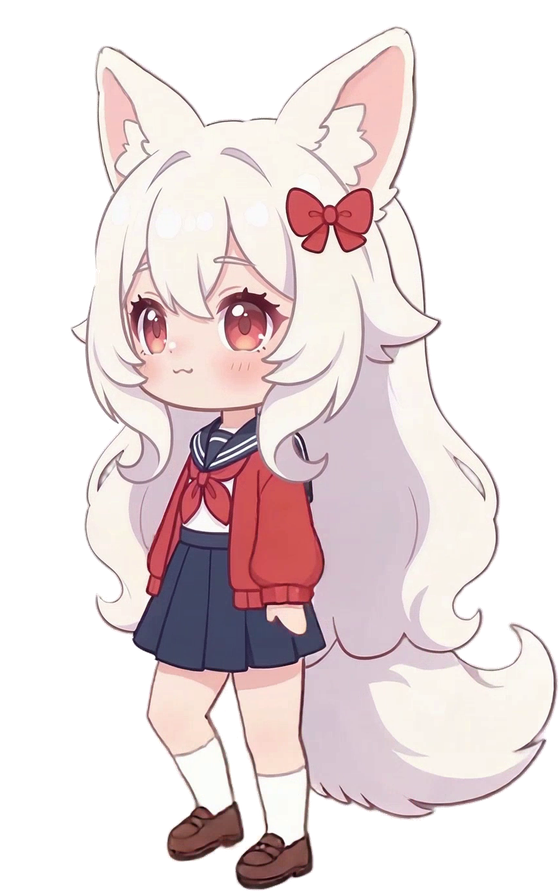
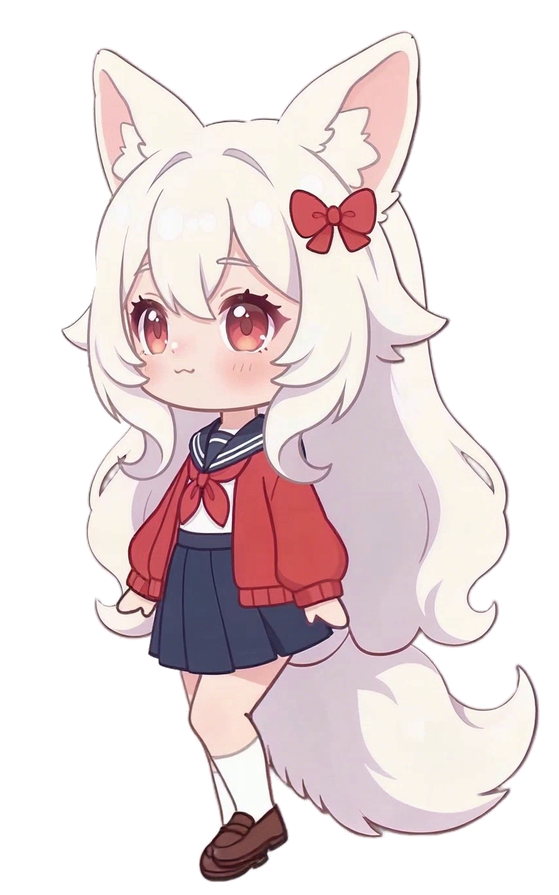
重挑walk_loop步态帧

diff --git a/scripts/build_feiling_walk_loop.py b/scripts/build_feiling_walk_loop.py
@@ -6,8 +6,7 @@ from pathlib import Path
 
 
 SOURCE_SET_NAME = "selected_70_spread_fixed"
-WALK_LOOP_START_FRAME_1BASED = 32
-WALK_LOOP_END_FRAME_1BASED = 43
+WALK_LOOP_SOURCE_FRAMES_1BASED = [24, 26, 28, 30, 32, 34, 36, 38, 40]
 
 
 def main() -> None:
@@ -36,14 +35,12 @@ def main() -> None:
 
     source_manifest = json.loads(source_manifest_path.read_text(encoding="utf-8"))
     source_frames = sorted(source_frames_dir.glob("*.png"))
-    selected_indices = list(
-        range(WALK_LOOP_START_FRAME_1BASED - 1, WALK_LOOP_END_FRAME_1BASED)
-    )
+    selected_indices = [frame_number - 1 for frame_number in WALK_LOOP_SOURCE_FRAMES_1BASED]
     target_frame_count = len(selected_indices)
 
-    if selected_indices[-1] >= len(source_frames):
+    if max(selected_indices) >= len(source_frames):
         raise SystemExit(
-            f"Walk loop selection exceeds available frames: last={selected_indices[-1] + 1}, available={len(source_frames)}"
+            f"Walk loop selection exceeds available frames: last={max(selected_indices) + 1}, available={len(source_frames)}"
         )
 
     target_dir.mkdir(parents=True, exist_ok=True)
@@ -56,8 +53,8 @@ def main() -> None:
         f"source_set={SOURCE_SET_NAME}",
         f"source_frame_count={len(source_frames)}",
         f"target_frame_count={target_frame_count}",
-        f"selection_range_1based={WALK_LOOP_START_FRAME_1BASED}-{WALK_LOOP_END_FRAME_1BASED}",
-        "selection_mode=contiguous_stable_walk_window",
+        "selection_frames_1based=" + ",".join(str(frame_number) for frame_number in WALK_LOOP_SOURCE_FRAMES_1BASED),
+        "selection_mode=curated_stride_frames",
     ]
 
     source_indices_1based = source_manifest.get("source_frame_indices_1based", [])

diff --git a/WALK_LOOP_RUNTIME_PLAN.md b/WALK_LOOP_RUNTIME_PLAN.md
@@ -55,12 +55,16 @@
 
 - 源目录：`assets/characters/feiling/animations/video_extract_20260327/selected_70_spread_fixed/frames`
 - 源 manifest：`feiling_video_motion_bridge_spread_fixed_70_manifest.json`
-- 运行时正式取帧区间：`032 ~ 043`
-- 选择方式：从稳定朝向的连续中段步行动作中截取一段闭环窗口
-- 目标帧数：`12`
+- 运行时正式取帧：`024, 026, 028, 030, 032, 034, 036, 038, 040`
+- 选择方式：从稳定朝向步行段里手工挑出一组步幅更明显、首尾更容易闭环的 stride 帧
+- 目标帧数：`9`
 - 保留统一后的画布尺寸和角色摆位，不再二次裁切
 
-这样做是因为整段均匀抽样会混入起步、回正和收步帧，循环后会出现“走几步像要停一下 / 转一下”的违和感。
+这样做是因为：
+
+- 整段均匀抽样会混入起步、回正和收步帧，循环后会出现“走几步像要停一下 / 转一下”的违和感
+- 单纯取一整段连续帧虽然更稳，但体感会偏慢
+- 手工挑 stride 帧能在不混入转身帧的前提下，把步调再提起来
 
 ## 构建脚本
 
@@ -71,7 +75,7 @@
 作用：
 
 - 从 `selected_70_spread_fixed/frames` 中均匀抽取 12 帧
-- 从 `selected_70_spread_fixed/frames` 中截取稳定步行动作窗口
+- 从 `selected_70_spread_fixed/frames` 中挑选 stride 更明确的正式帧
 - 输出到 `animations/walk_loop`
 - 生成 `manifest.txt`
 - 在 manifest 中保留“运行时帧 -> 候选帧 -> 原视频帧”的映射

diff --git a/LEARNING_JOURNAL.md b/LEARNING_JOURNAL.md
@@ -72,6 +72,7 @@
 - 收紧 `追逐鼠标` 的跟随滞后区间，避免“走几步就停一下”的抽搐感。
 - 把 `walk_loop` 动画单独放慢，并避免切换时反复重置到首帧。
 - 复查 `walk_loop` 素材后，确认“整段均匀抽样”会混入起步和回正帧，已改为只取稳定步行动作窗口 `032 ~ 043` 作为正式运行时循环。
+- 在继续观察后，确认连续窗口方案体感偏慢，已进一步改成手工挑选的 stride 帧集合 `024, 026, 028, 030, 032, 034, 036, 038, 040`。
 
 ### 当前缺口
 
